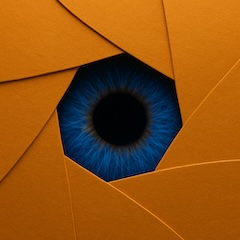
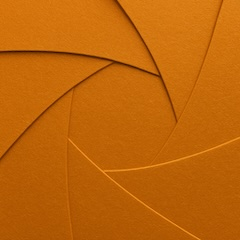
3 state blinking test

diff --git a/src/eyes.py b/src/eyes.py
@@ -9,14 +9,18 @@ from PIL import Image
 sys.path.append(os.getcwd())
 from lib import LCD_1inch28
 
-EyeStates = Enum("EyeStates", ["Off", "Open", "Close", "Blinking", "BlinkOnce", "Heart"])
+EyeStates = Enum(
+    "EyeStates", ["Off", "Open", "HalfOpen", "Close", "Blinking", "BlinkOnce", "Heart"]
+)
 
 width = 240
 height = 240
 
+
 def load_image(path: str) -> Image.Image:
     image = Image.open(path)
     return image.rotate(180)
+
 
 class Eyes:
     def __init__(self) -> None:
@@ -33,6 +37,10 @@ class Eyes:
         self.openImages = [
             self.displayR.prepare_image(load_image("assets/eyes/Open.jpg")),
             self.displayL.prepare_image(load_image("assets/eyes/Open.jpg")),
+        ]
+        self.halfOpenImages = [
+            self.displayR.prepare_image(load_image("assets/eyes/HalfOpen.jpg")),
+            self.displayL.prepare_image(load_image("assets/eyes/HalfOpen.jpg")),
         ]
         self.closeImages = [
             self.displayR.prepare_image(load_image("assets/eyes/Close.jpg")),
@@ -75,14 +83,24 @@ class Eyes:
             self.set_image(self.heartImages)
             self.currentState = eyeState
         elif eyeState == EyeStates.Blinking:
-            if self.currentState != EyeStates.Open:
+            if self.currentState == EyeStates.Close:
                 self.set_image(self.openImages)
                 self.currentState = EyeStates.Open
+                sleep = 3
+            elif self.currentState == EyeStates.HalfOpen:
+                self.set_image(self.closeImages)
+                self.currentState = EyeStates.Close
+                sleep = 0.2
+            elif self.currentState == EyeStates.Open:
+                self.set_image(self.halfOpenImages)
+                self.currentState = EyeStates.HalfOpen
+                sleep = 0.1
             else:
                 self.set_image(self.closeImages)
                 self.currentState = EyeStates.Close
+                sleep = 0.2
             self.timer = Timer(
-                3 if self.currentState == EyeStates.Open else 0.2,
+                sleep,
                 self.set_state,
                 [EyeStates.Blinking],
             )
